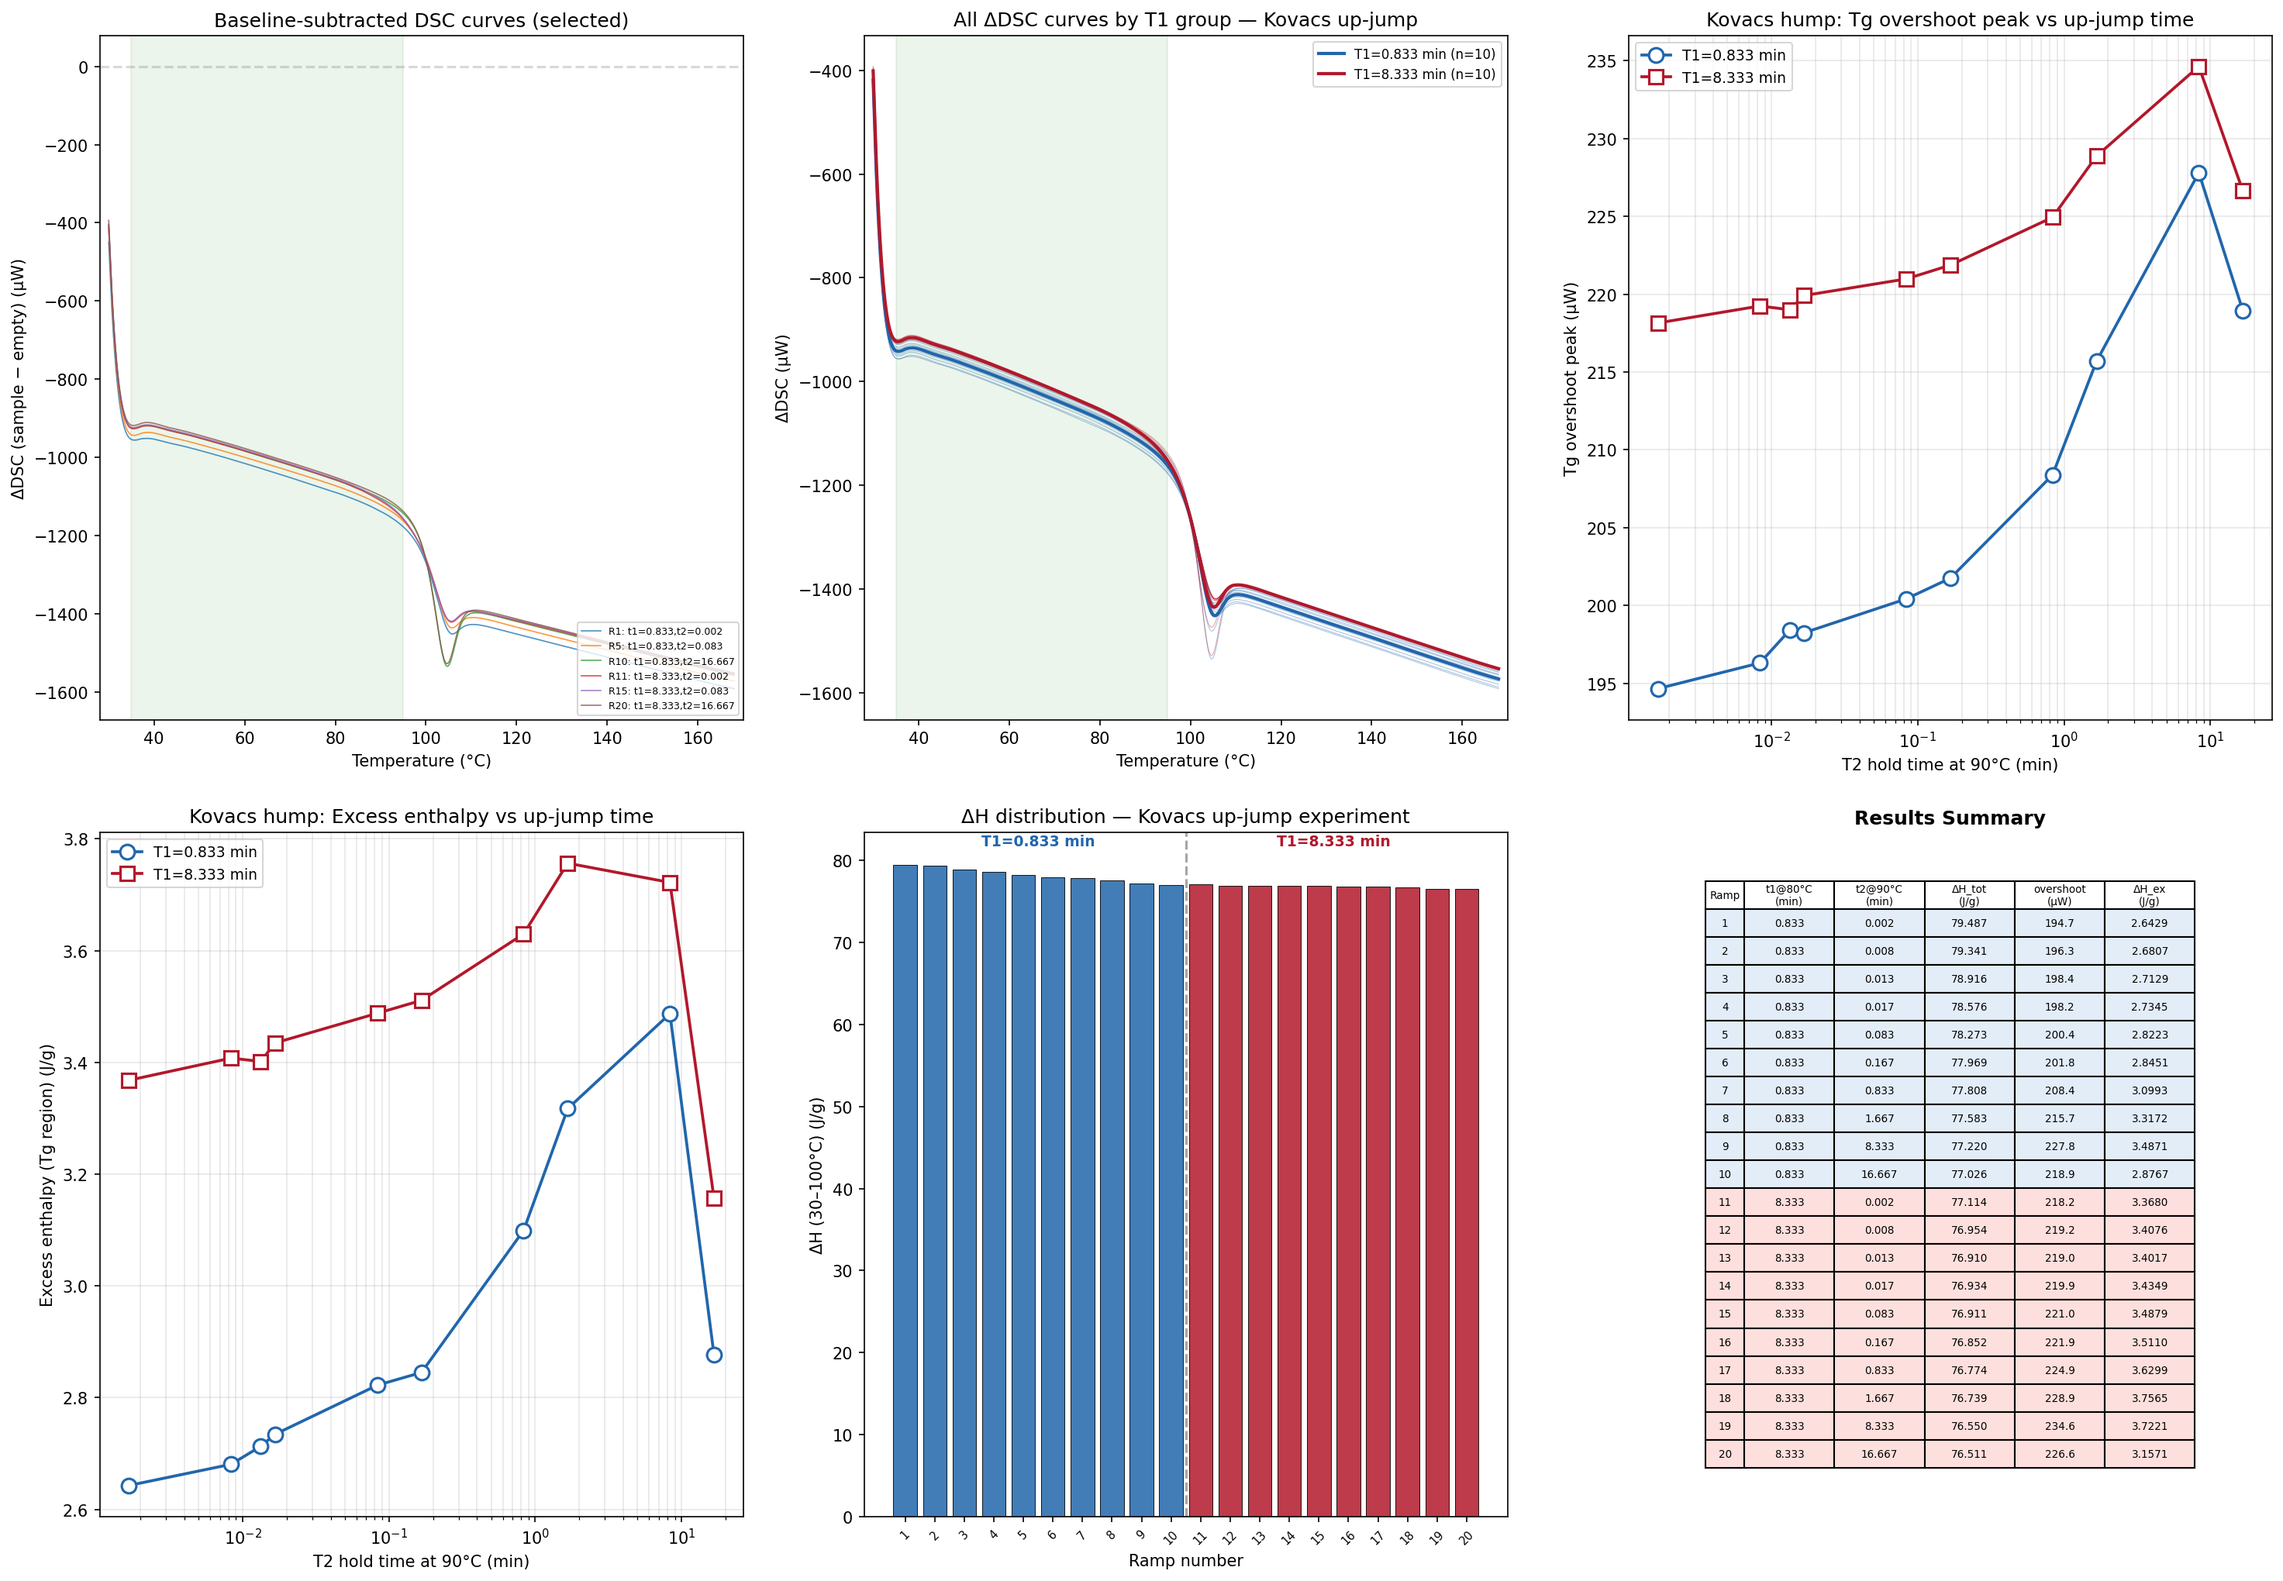
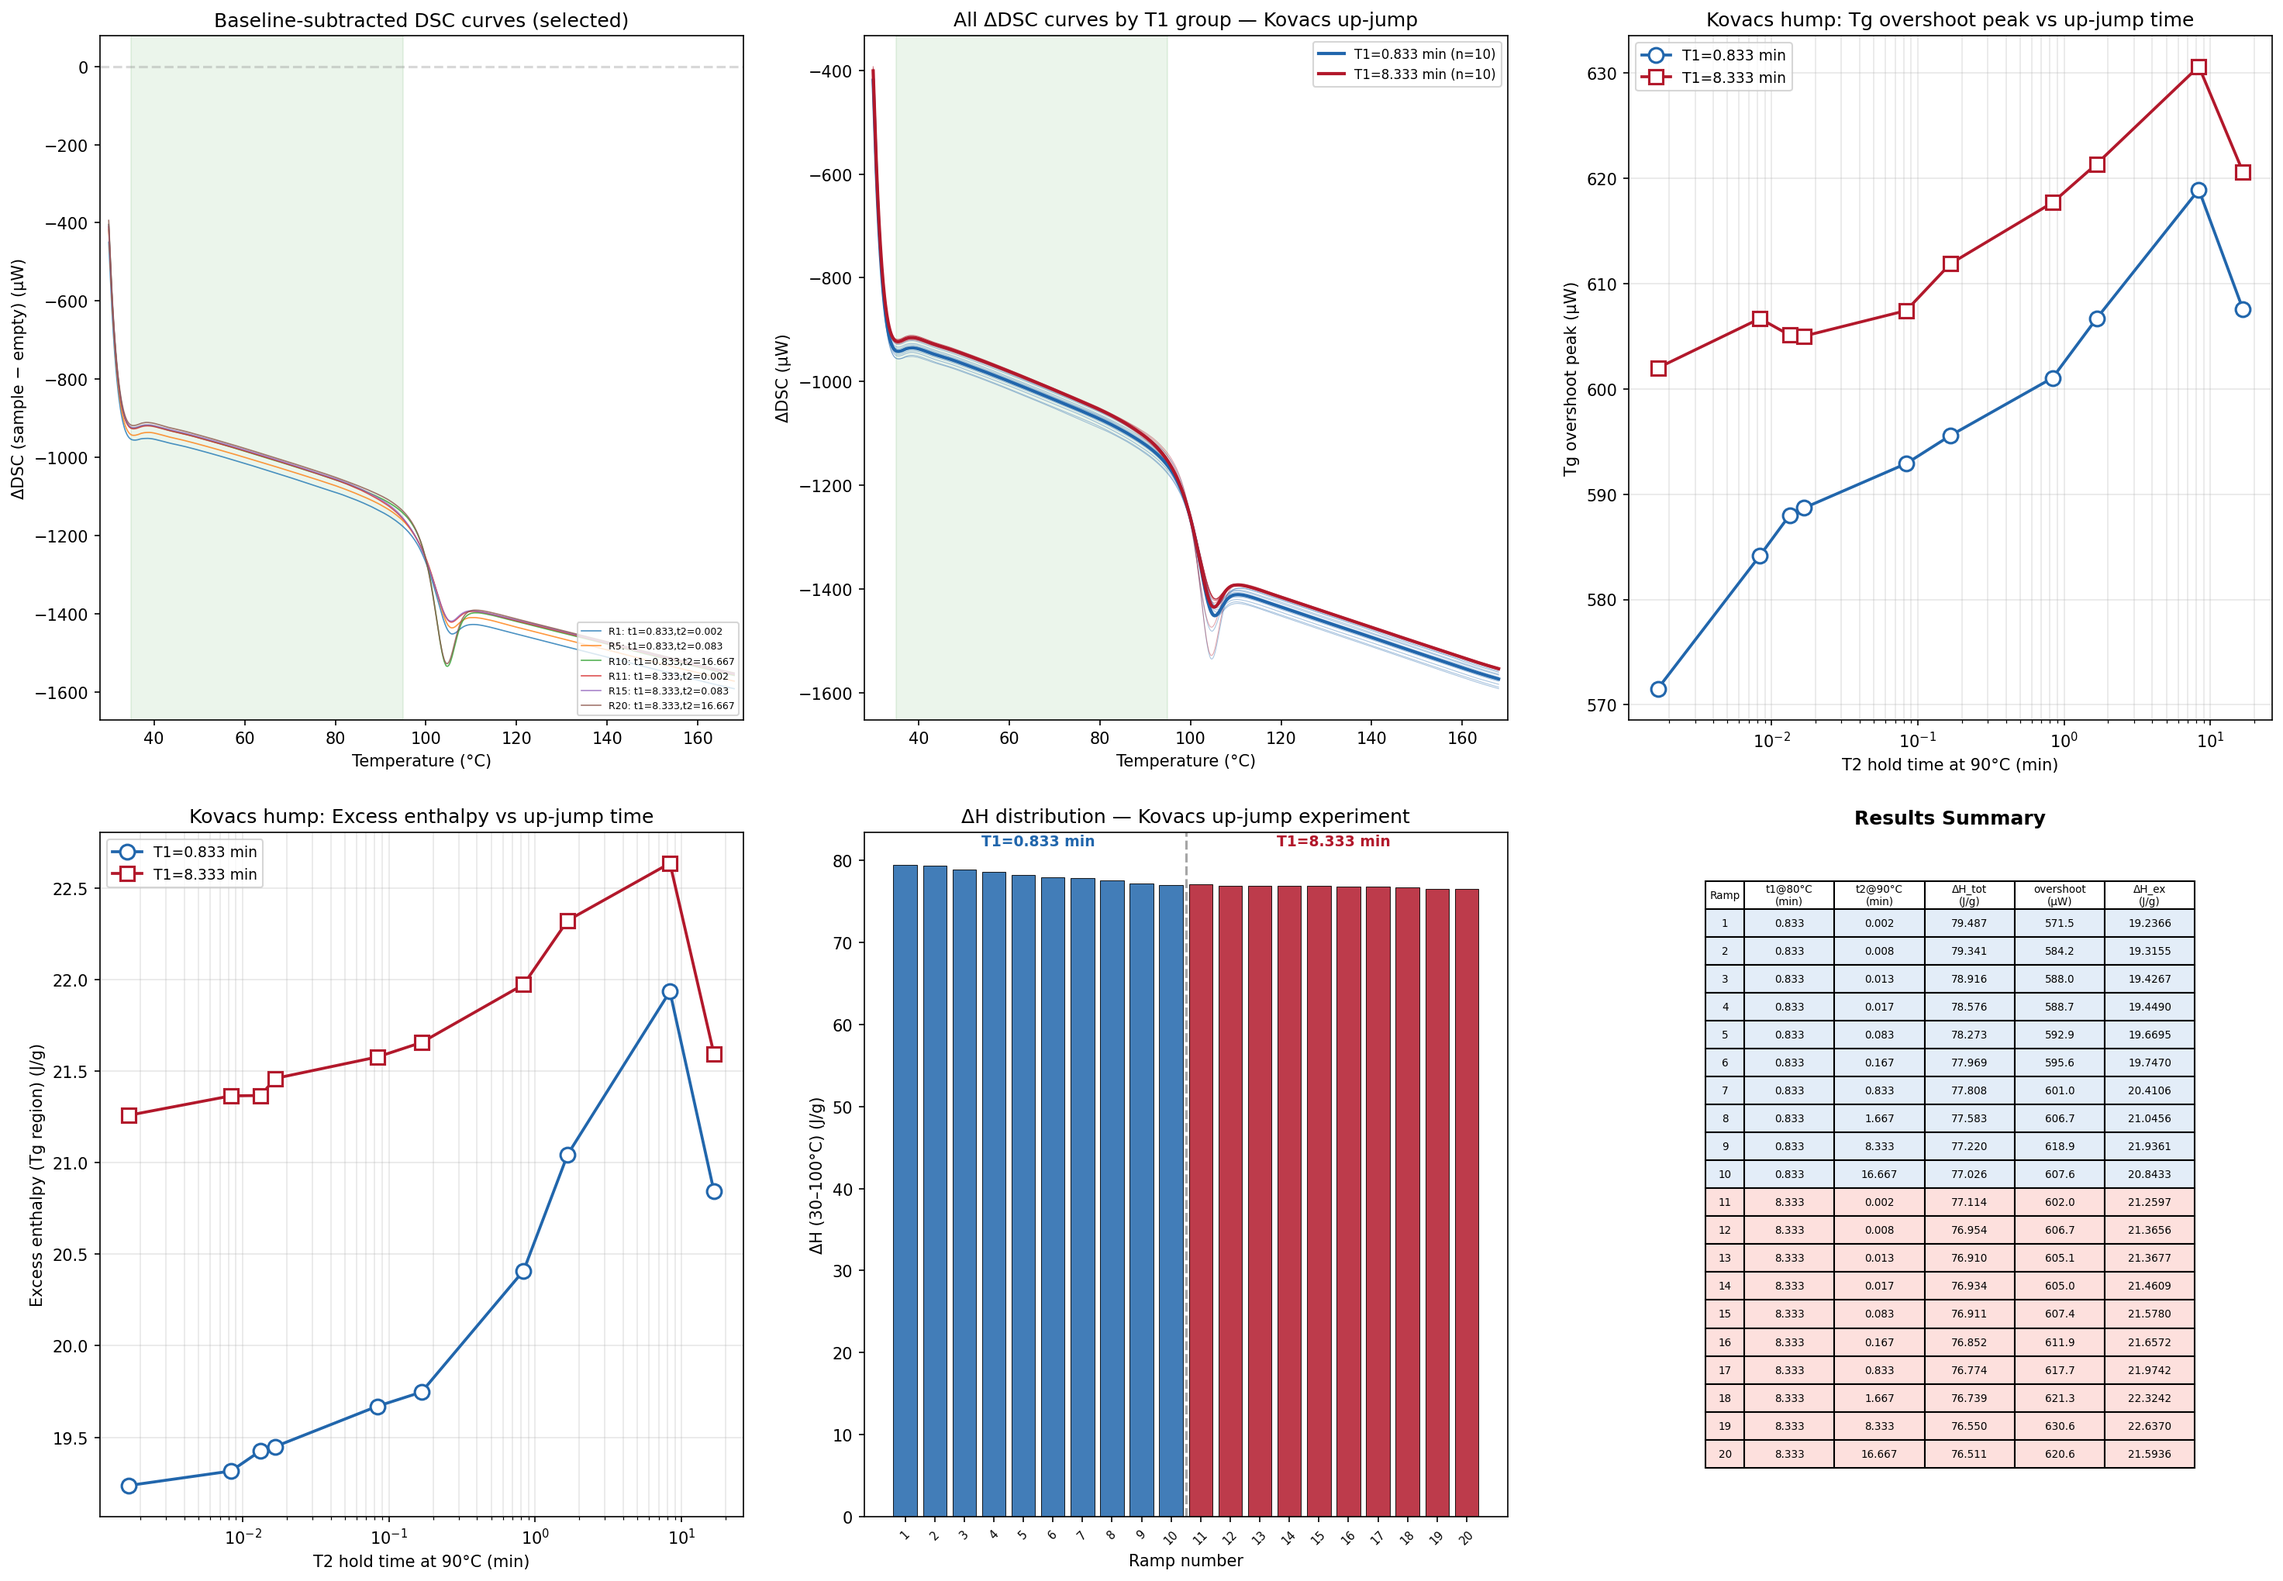
Expand Tg overshoot range to 30-110°C

diff --git a/src/process_kovacs.py b/src/process_kovacs.py
@@ -215,7 +215,7 @@ def main():
     # ── 4. Compute ΔH + Tg overshoot for each ramp ──────────────────────
     # Tg overshoot = peak DSC in Tg region (75–110°C) minus DSC@100°C
     # Computed directly on RAW sample DSC (not interpolated) for accuracy
-    T_TG_LO  = 75
+    T_TG_LO  = 30
     T_TG_HI  = 110
     T_REF    = 100
 
